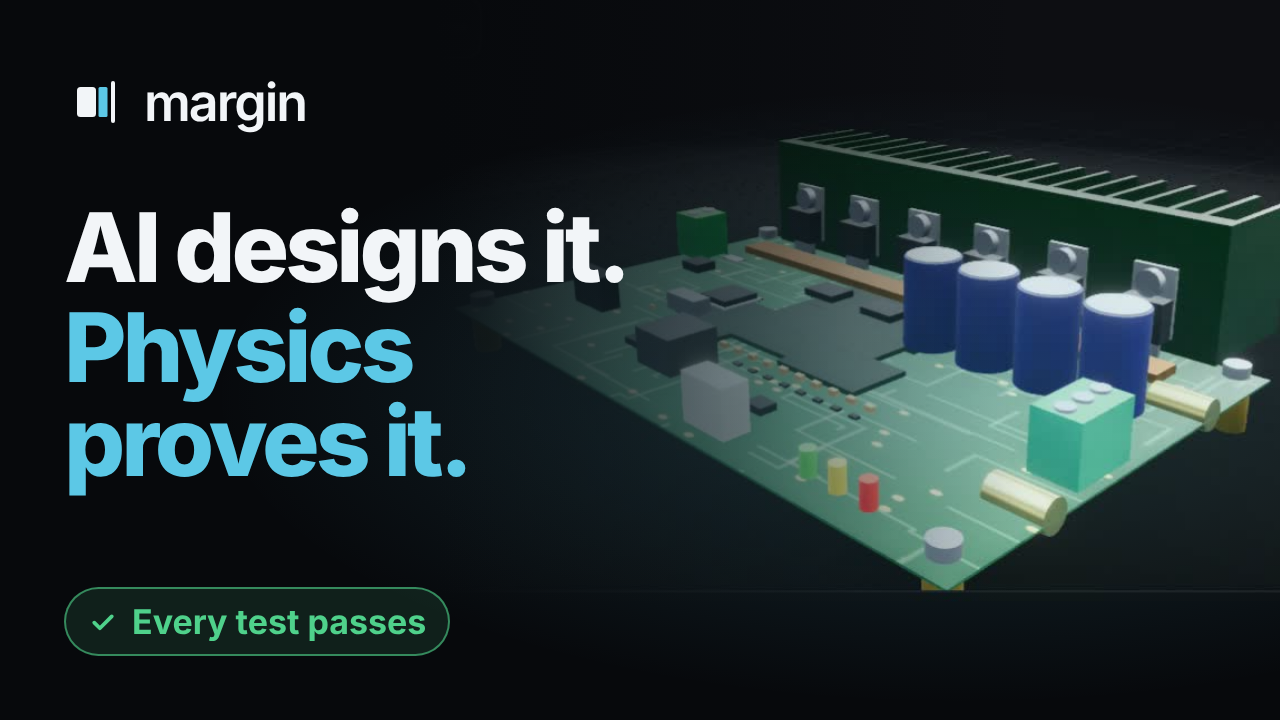
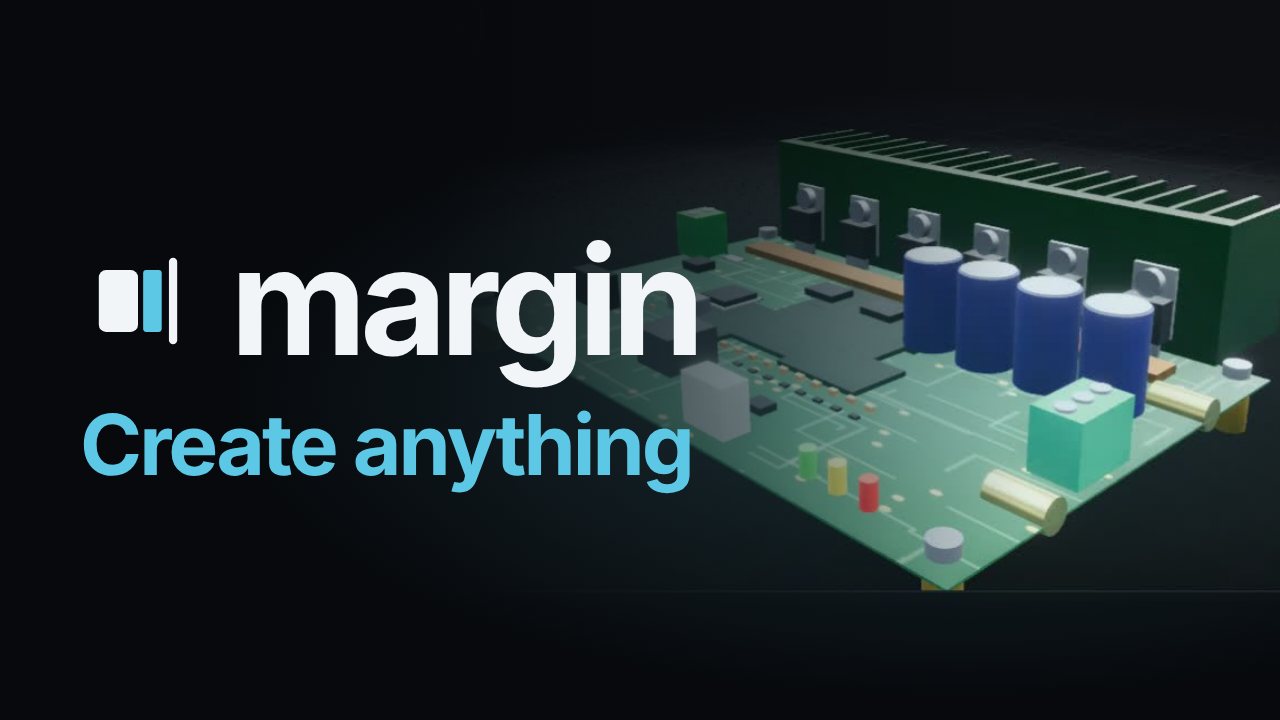
Thumbnail: margin, Create anything

diff --git a/video/src/Thumb.tsx b/video/src/Thumb.tsx
@@ -8,17 +8,12 @@ export const Thumb = () => (
     <Img src={staticFile("thumb/board.jpg")} style={{ position: "absolute", right: -120, top: 40, width: 980, transform: "scale(1.25)", transformOrigin: "70% 50%" }} />
     <AbsoluteFill style={{ background: "linear-gradient(90deg, #07090c 34%, rgba(7,9,12,0.55) 58%, rgba(7,9,12,0) 80%)" }} />
     <AbsoluteFill style={{ background: "radial-gradient(ellipse at 75% 55%, rgba(92,200,230,0.18), transparent 55%)" }} />
-    <div style={{ position: "absolute", left: 64, top: 70, display: "flex", alignItems: "center", gap: 16 }}>
-      <svg width="64" height="64" viewBox="0 0 64 64"><rect x="13" y="17" width="19" height="30" rx="3.5" fill={C.ink} /><rect x="34.5" y="17" width="9" height="30" rx="1.5" fill={C.accent} /><rect x="47" y="11" width="4" height="42" rx="2" fill={C.ink} /></svg>
-      <div style={{ fontWeight: 600, fontSize: 52, color: C.ink, letterSpacing: -2 }}>margin</div>
-    </div>
-    <div style={{ position: "absolute", left: 64, top: 200, width: 640 }}>
-      <div style={{ fontWeight: 800, fontSize: 96, lineHeight: 0.98, letterSpacing: -4, color: C.ink }}>AI designs it.</div>
-      <div style={{ fontWeight: 800, fontSize: 96, lineHeight: 0.98, letterSpacing: -4, color: C.accent, marginTop: 6 }}>Physics<br />proves it.</div>
-    </div>
-    <div style={{ position: "absolute", left: 64, bottom: 64, display: "flex", alignItems: "center", gap: 14, padding: "12px 22px", borderRadius: 999, background: "rgba(79,209,139,0.12)", border: "2px solid rgba(79,209,139,0.6)" }}>
-      <svg width="30" height="30" viewBox="0 0 24 24"><path d="M5 12.5l4.5 4.5L19 7.5" stroke={C.pass} strokeWidth="3" fill="none" strokeLinecap="round" strokeLinejoin="round" /></svg>
-      <span style={{ fontWeight: 700, fontSize: 34, color: C.pass }}>Every test passes</span>
+    <div style={{ position: "absolute", left: 72, top: 0, bottom: 0, display: "flex", flexDirection: "column", justifyContent: "center" }}>
+      <div style={{ display: "flex", alignItems: "center", gap: 26 }}>
+        <svg width="132" height="132" viewBox="0 0 64 64"><rect x="13" y="17" width="19" height="30" rx="3.5" fill={C.ink} /><rect x="34.5" y="17" width="9" height="30" rx="1.5" fill={C.accent} /><rect x="47" y="11" width="4" height="42" rx="2" fill={C.ink} /></svg>
+        <div style={{ fontWeight: 700, fontSize: 150, color: C.ink, letterSpacing: -7, lineHeight: 1 }}>margin</div>
+      </div>
+      <div style={{ fontWeight: 700, fontSize: 84, color: C.accent, letterSpacing: -3, marginTop: 18, marginLeft: 8 }}>Create anything</div>
     </div>
   </AbsoluteFill>
 );
